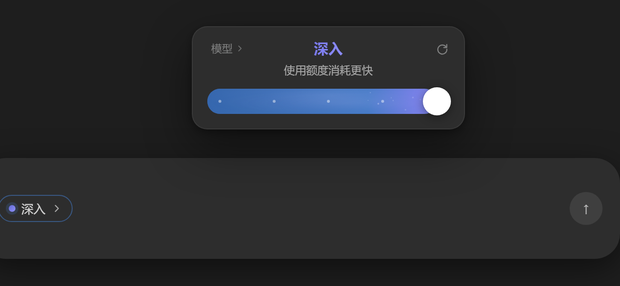
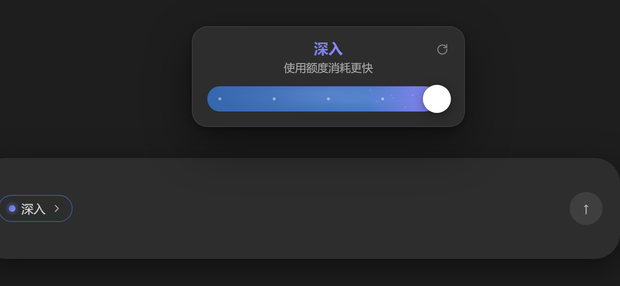
feat: 紫色扫描整体提速到 1.8s（起手段同步收紧到 0.22s / 32%）
用户：还是快一点渐变紫色。
- --dshcps-sweep: 2.4s -> 1.8s（快 25%）
- 两段式关键帧：起手段 14% 时间 / 30% 进度 -> 12% 时间（约 0.22s）/ 32% 进度，
  剩下 88% 时间铺满；粒子层的 clip-path 揭示同步改成 96% -> 65% -> 0。
- harness 的起手冻结帧负延时从 -0.336s 改成 -0.216s，静态对照帧改成 32%。

顺带把离线 harness 重写成 tools/preview.mjs（旧文件被 PowerShell 的
Get-Content/Set-Content 往返二次编码损坏，这已经是第二次，已删除旧文件）。
新 harness 功能不变：React 运行时、假宿主、拖拽/悬停序列、冻结帧、无运动/无抖动/
无墨点对照帧。以后不再用 PowerShell 编辑源码文件。

验证：把真实动画暂停在 0.216s 与静态 32% 覆盖帧逐像素比对，轨道取色差只有 1-4/255
（差异区就是轨道本身），确认分段缓动仍按设计走到 32%。

Changed region(s): [[0.3371, 0.1958, 0.7355, 0.4755], [0.3371, 0.1399, 0.3984, 0.1958], [0.3065, 0.4196, 0.3371, 0.4476]]

diff --git a/lib/client.js b/lib/client.js
@@ -174,7 +174,7 @@ body:not([data-ds-dark-theme]) .dshcps-tip{
    顶层那圈径向柔光不动，只呼吸，负责「材质里有光」而不是「白点堆叠」。 */
 .dshcps-ultra{
   position:absolute; inset:0; overflow:hidden; border-radius:inherit; pointer-events:none;
-  --dshcps-sweep:2.4s;
+  --dshcps-sweep:1.8s;
   background-image:
     radial-gradient(ellipse at 54% 28%,
       rgba(211,203,255,.14) 0%, rgba(185,175,255,.05) 38%, rgba(185,175,255,0) 72%),
@@ -187,15 +187,15 @@ body:not([data-ds-dark-theme]) .dshcps-tip{
   background-position:0 0, 0% 0%;
   animation:dshcps-ultra-sweep var(--dshcps-sweep) linear both;
 }
-/* 两段式：起手用 14% 的时间把紫色快速推出来一点（平稳减速，不是硬弹），
-   剩下 86% 的时间再慢慢铺满 —— 用逐关键帧的 animation-timing-function 分段。 */
+/* 两段式：起手用 12% 的时间（约 0.22s）把紫色快速推出来一小截（32% 进度，平稳减速不是硬弹），
+   剩下 88% 的时间再慢慢铺满 —— 用逐关键帧的 animation-timing-function 分段。 */
 @keyframes dshcps-ultra-sweep{
   0%{
     background-position:0 0, 0% 0%;
     animation-timing-function:cubic-bezier(.30,.70,.35,1);
   }
-  14%{
-    background-position:0 0, 30% 0%;
+  12%{
+    background-position:0 0, 32% 0%;
     animation-timing-function:cubic-bezier(.28,.06,.30,1);
   }
   100%{background-position:0 0, 100% 0%}
@@ -221,8 +221,8 @@ body:not([data-ds-dark-theme]) .dshcps-tip{
     clip-path:inset(0 0 0 96% round 999px); opacity:.2;
     animation-timing-function:cubic-bezier(.30,.70,.35,1);
   }
-  14%{
-    clip-path:inset(0 0 0 68% round 999px); opacity:.85;
+  12%{
+    clip-path:inset(0 0 0 65% round 999px); opacity:.85;
     animation-timing-function:cubic-bezier(.28,.06,.30,1);
   }
   100%{clip-path:inset(0 0 0 0% round 999px); opacity:1}

diff --git a/README.md b/README.md
@@ -9,7 +9,7 @@
 
 ## 效果
 
-| 最低档（轻度） | 最高档：起手 0.34s（紫色快速出来一点） | 最高档：拖柄溅出墨点（同帧还带着额度提醒） | 最高档：静下来之后 |
+| 最低档（轻度） | 最高档：起手 0.22s（紫色快速出来一点） | 最高档：拖柄溅出墨点（同帧还带着额度提醒） | 最高档：静下来之后 |
 |---|---|---|---|
 | ![轻度](docs/preview-light.png) | ![起手](docs/preview-kick.png) | ![溅射](docs/preview-splash.png) | ![Ultra](docs/preview-ultra.png) |
 
@@ -19,7 +19,7 @@
 
 > 上面五张是用离线 harness 把 `lib/client.js` 挂到假 DSH 宿主上真实渲染、再由 Edge 无头截的图
 > （渲染脚本见工作区 `tools/preview-render.mjs`，不在本包内）。第二、三张是**把动画暂停**在
-> 0.336s（两段式扫描的起手终点）和 180ms（墨点飞行中段）拍的定帧，所以每一张都是确定性的。
+> 0.216s（两段式扫描的起手终点）和 180ms（墨点飞行中段）拍的定帧，所以每一张都是确定性的。
 
 ```
 ┌──────────────────────────────────────┐
@@ -33,10 +33,10 @@
 
 ## 最高档（Ultra）的动效
 
-切到最高档不是「换个颜色」，而是一段 2.4s 的动效：
+切到最高档不是「换个颜色」，而是一段 1.8s 的动效：
 
-- **起手快、后面慢**：紫色从右边缘向左扫过，但**分两段走** —— 前 14% 的时间（约 0.34s）
-  先把紫色快速推出来一小截（约轨道右侧 30%），剩下 86% 的时间再慢慢铺满。
+- **起手快、后面慢**：紫色从右边缘向左扫过，但**分两段走** —— 前 12% 的时间（约 0.22s）
+  先把紫色快速推出来一小截（约轨道右侧 32%），剩下 88% 的时间再慢慢铺满。
   用**逐关键帧的 `animation-timing-function`** 实现：两段各自有自己的缓动曲线，
   所以起手是「平稳地快」而不是硬弹。
 - **紫色从右边缘向左扫过**：一条 2 倍宽的材质（左半基础蓝、右半紫蓝本体），靠
